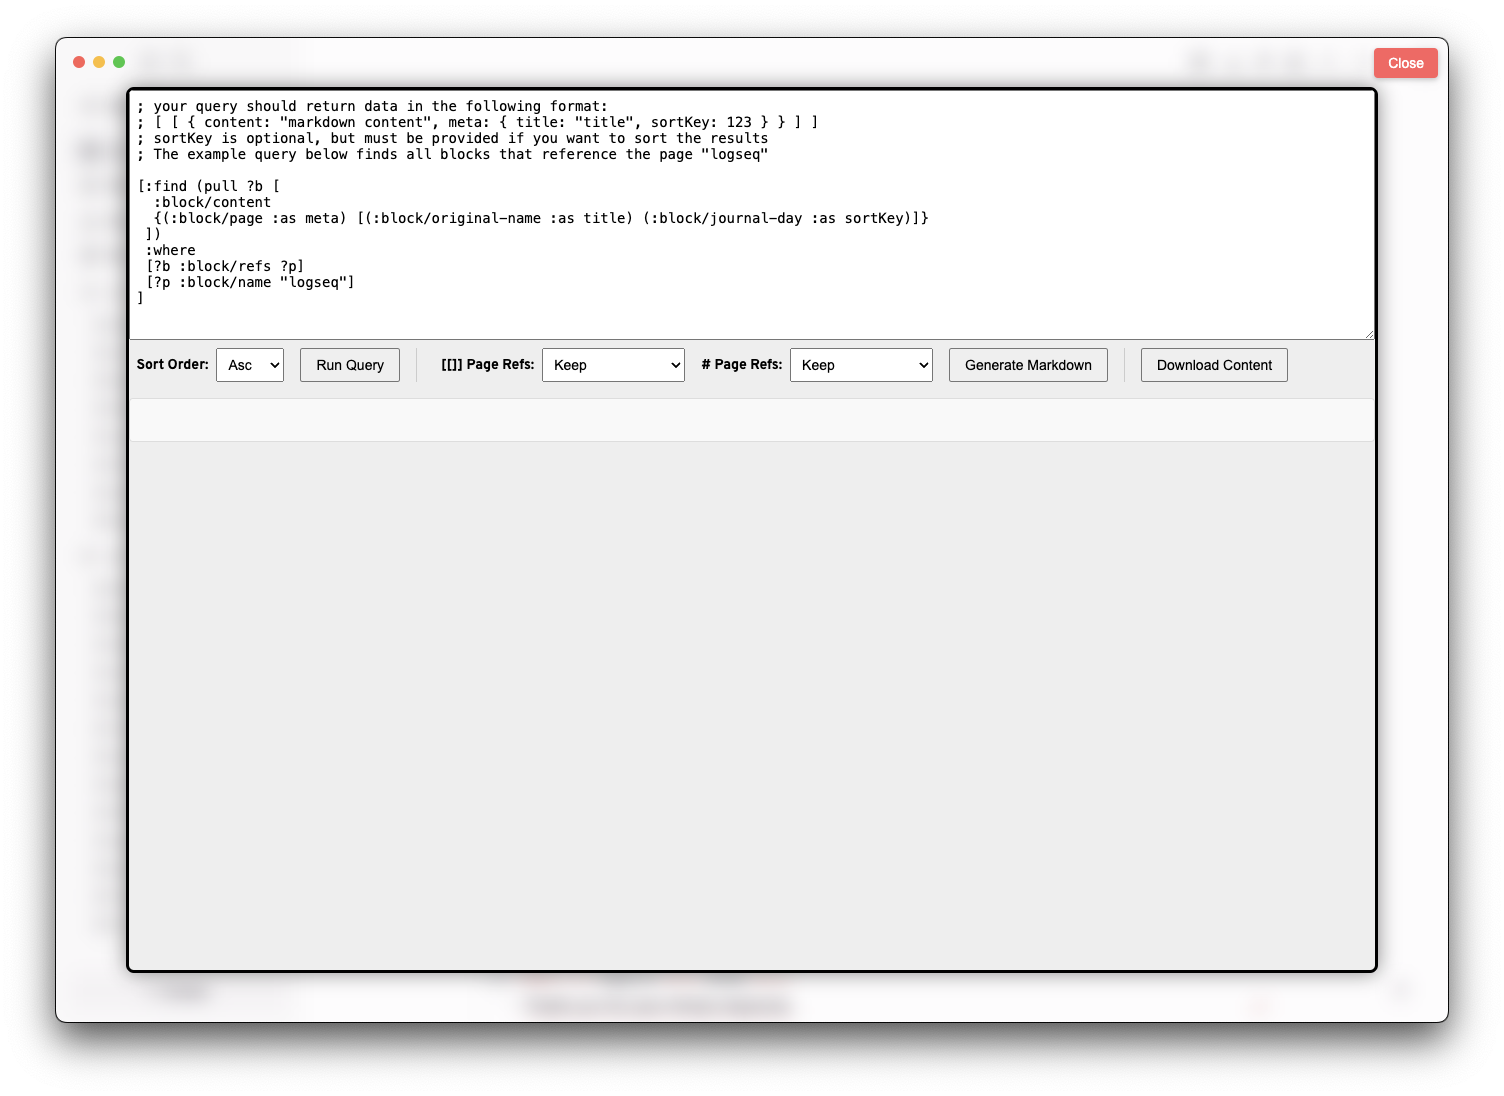
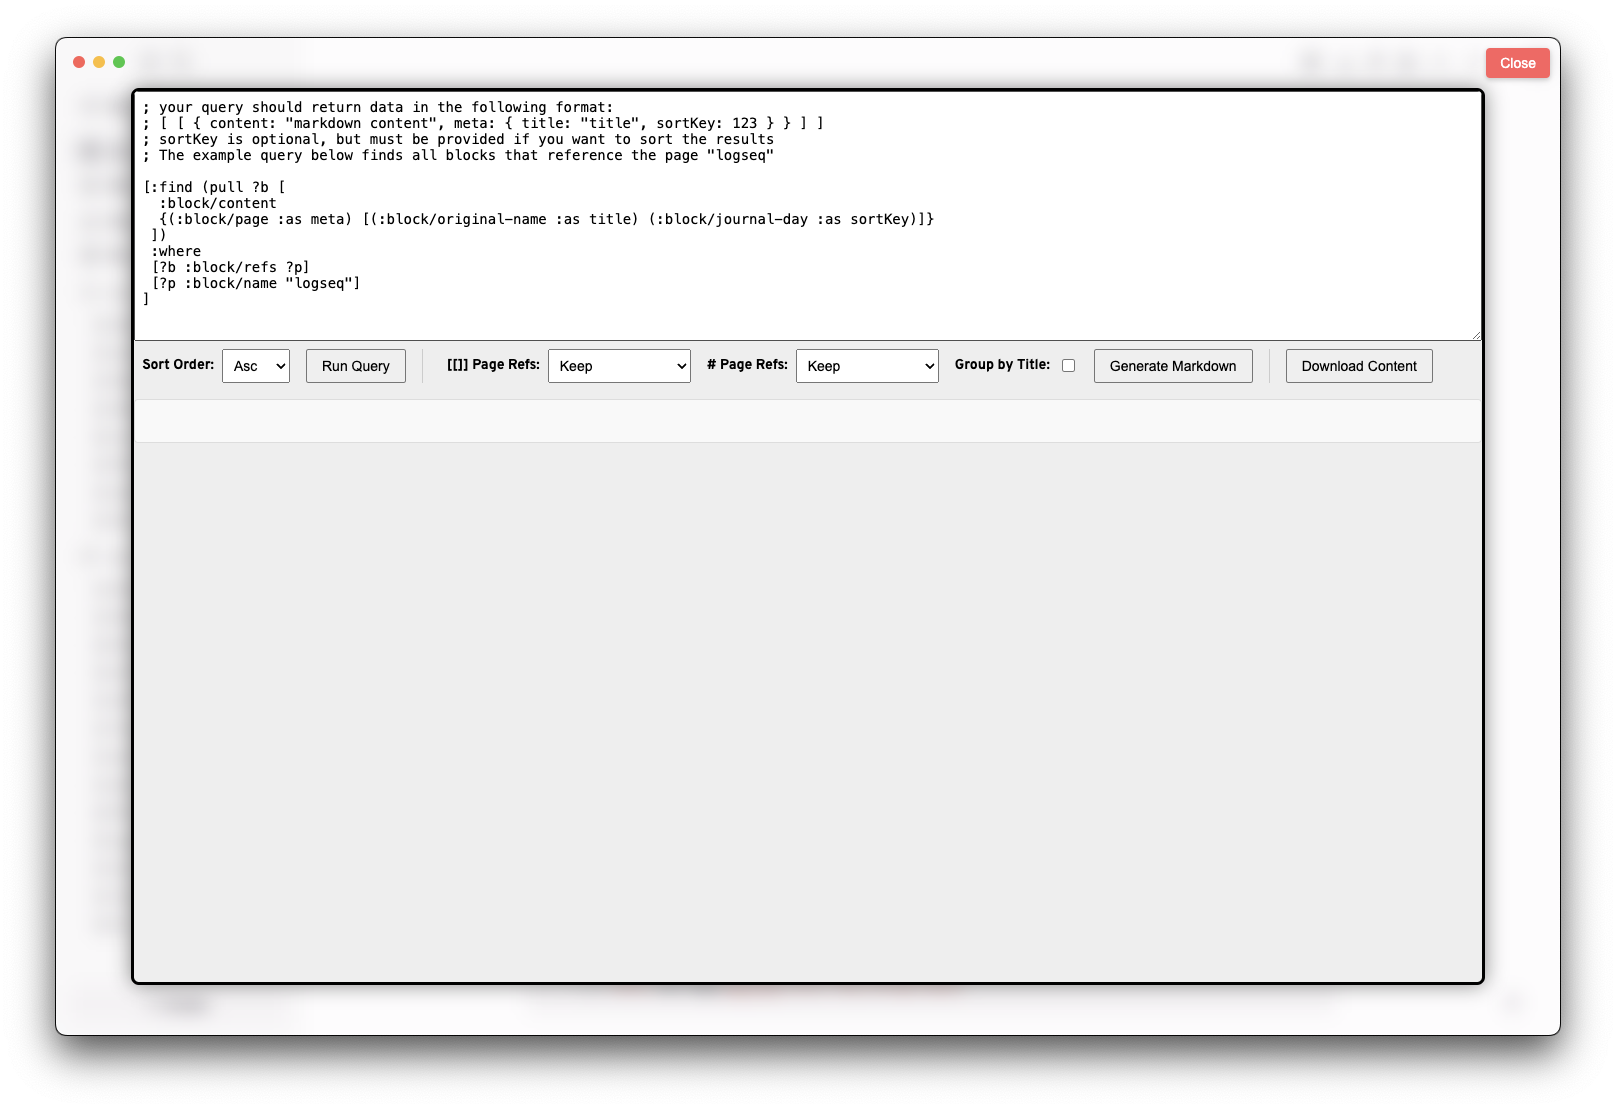
0.0.8

Changed region(s): [[0.0312, 0.031, 0.875, 0.9307], [0.9062, 0.031, 0.9688, 0.9307], [0.3438, 0.8996, 0.5312, 0.9307]]

diff --git a/src/Repl.svelte b/src/Repl.svelte
@@ -8,6 +8,7 @@
   let sortOrder: 'asc' | 'desc' = 'asc';
   let pageRefsAction: RefAction = 'do-nothing';
   let hashRefsAction: RefAction = 'do-nothing';
+  let groupByTitle: boolean = false; // New state for grouping by title
 
   async function runQuery() {
     const errorKey = "#lspmsg#error#";
@@ -59,26 +60,63 @@
   function generateMarkdown() {
     if (!sortedResults.length) return;
 
-    const markdownContent = sortedResults
-      .map((entry) => {
-        const title = entry.meta?.title ? `# ${entry.meta.title}\n\n` : '---\n\n';
-        let content = unescapeJsonString(entry.content); // Properly unescape JSON-escaped markdown
+    let markdownContent;
 
-        if (pageRefsAction === 'replace-with-text') {
-          content = content.replace(/\[\[(.*?)\]\]/g, '$1');
-        } else if (pageRefsAction === 'delete') {
-          content = content.replace(/\[\[.*?\]\]/g, '');
-        }
+    if (groupByTitle) {
+      const groupedResults = sortedResults.reduce((acc, entry) => {
+        const title = entry.meta?.title || 'Untitled';
+        if (!acc[title]) acc[title] = [];
+        acc[title].push(entry);
+        return acc;
+      }, {});
 
-        if (hashRefsAction === 'replace-with-text') {
-          content = content.replace(/#(\w+)/g, '$1');
-        } else if (hashRefsAction === 'delete') {
-          content = content.replace(/#\w+/g, '');
-        }
+      markdownContent = Object.entries(groupedResults)
+        .map(([title, entries]) => {
+          const content = entries
+            .map((entry) => {
+              let entryContent = unescapeJsonString(entry.content);
 
-        return `${title}${content}`;
-      })
-      .join('\n\n');
+              if (pageRefsAction === 'replace-with-text') {
+                entryContent = entryContent.replace(/\[\[(.*?)\]\]/g, '$1');
+              } else if (pageRefsAction === 'delete') {
+                entryContent = entryContent.replace(/\[\[.*?\]\]/g, '');
+              }
+
+              if (hashRefsAction === 'replace-with-text') {
+                entryContent = entryContent.replace(/#(\w+)/g, '$1');
+              } else if (hashRefsAction === 'delete') {
+                entryContent = entryContent.replace(/#\w+/g, '');
+              }
+
+              return entryContent;
+            })
+            .join('\n\n---\n\n');
+
+          return `# ${title}\n\n${content}`;
+        })
+        .join('\n\n');
+    } else {
+      markdownContent = sortedResults
+        .map((entry) => {
+          const title = entry.meta?.title ? `# ${entry.meta.title}\n\n` : '---\n\n';
+          let content = unescapeJsonString(entry.content);
+
+          if (pageRefsAction === 'replace-with-text') {
+            content = content.replace(/\[\[(.*?)\]\]/g, '$1');
+          } else if (pageRefsAction === 'delete') {
+            content = content.replace(/\[\[.*?\]\]/g, '');
+          }
+
+          if (hashRefsAction === 'replace-with-text') {
+            content = content.replace(/#(\w+)/g, '$1');
+          } else if (hashRefsAction === 'delete') {
+            content = content.replace(/#\w+/g, '');
+          }
+
+          return `${title}${content}`;
+        })
+        .join('\n\n');
+    }
 
     queryResult = markdownContent; // Update the query-result area with markdown
   }
@@ -121,6 +159,10 @@
           <option value="replace-with-text">Replace with text</option>
           <option value="delete">Delete</option>
         </select>
+      </div>
+      <div class="control-group">
+        <label for="group-by-title">Group by Title:</label>
+        <input type="checkbox" id="group-by-title" bind:checked={groupByTitle} />
       </div>
       <div class="control-group">
         <button on:click={generateMarkdown}>Generate Markdown</button>

diff --git a/README.md b/README.md
@@ -47,6 +47,9 @@ When exporting query results to markdown, you can customize how page references 
 - **Replace with text**: Convert references to plain text.
 - **Delete**: Remove the references entirely.
 
+### Grouping by Title
+
+If you check the "Group by Title" checkbox, entries with the same title will be grouped under that title, separated by `---`. Titles will not be repeated.
 
 ### Download Content 
 
